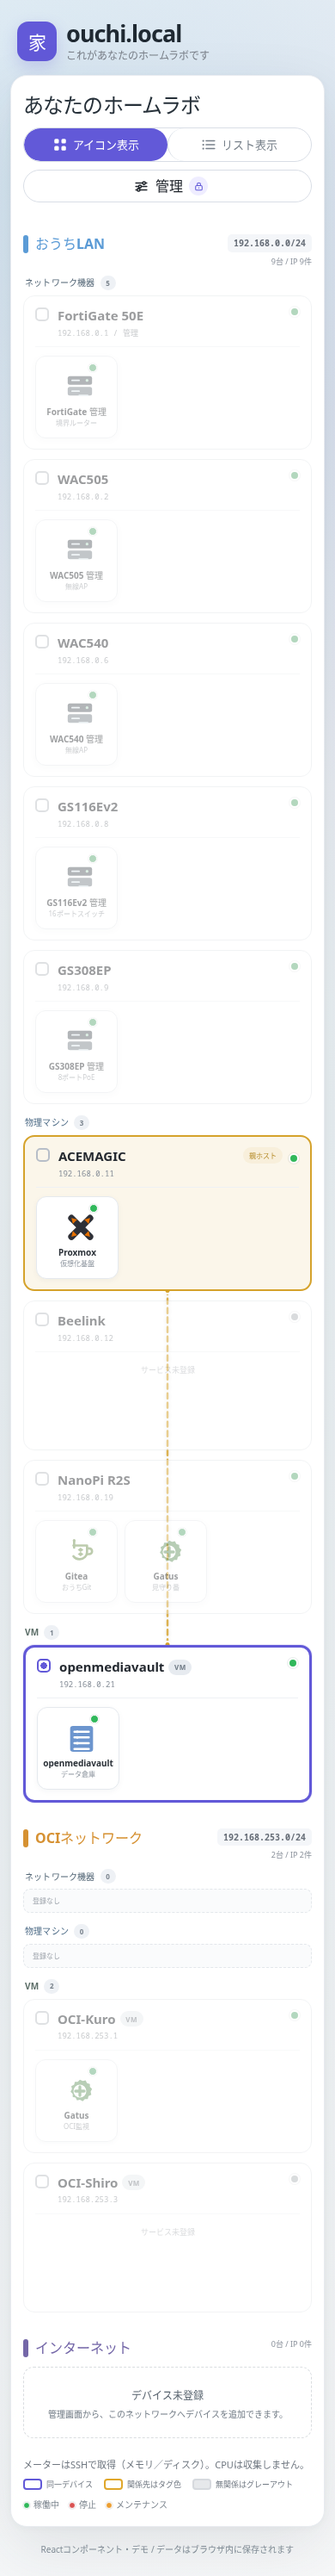
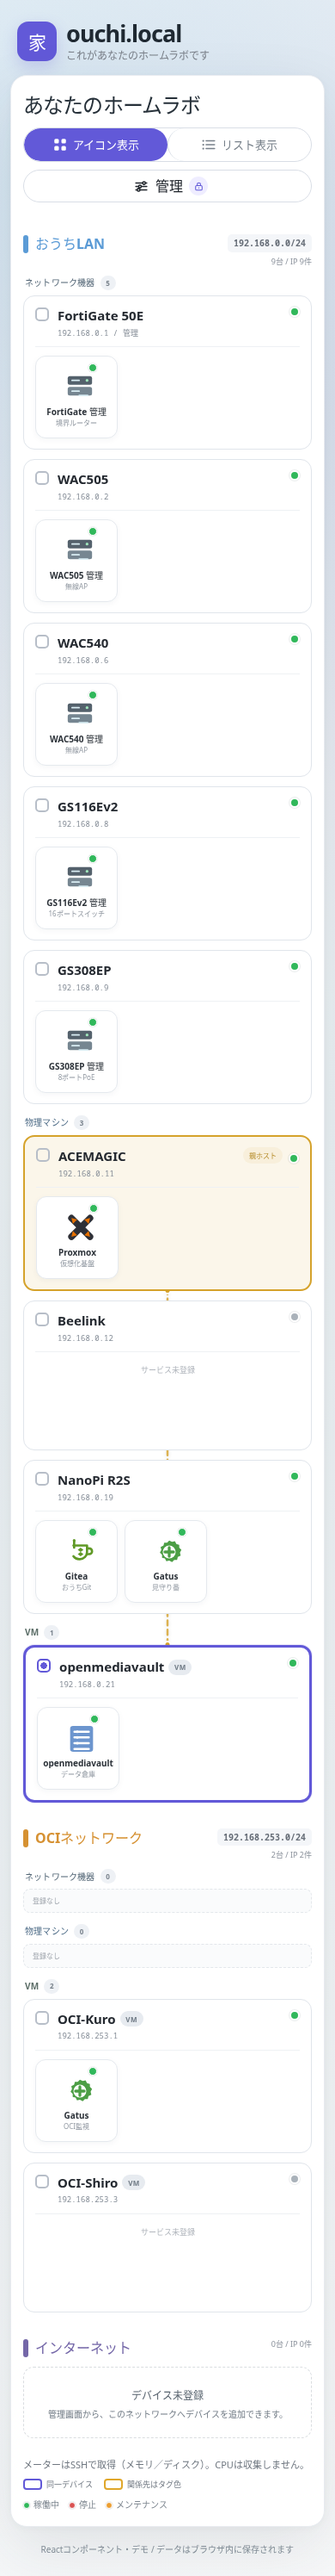
試験: 無関係デバイスのグレーアウトを外す

diff --git a/src/portal/styles.css b/src/portal/styles.css
@@ -1855,7 +1855,7 @@
   min-height: 174px;
   padding: 12px 13px;
   overflow: hidden;
-  background: rgba(255, 255, 255, 0.78);
+  background: #fff;
   border: 1.5px solid #e0e5eb;
   border-radius: 13px;
   box-shadow: none;
@@ -1863,8 +1863,6 @@
   transition:
     border-color 160ms ease,
     background 160ms ease,
-    opacity 160ms ease,
-    filter 160ms ease,
     transform 160ms ease;
 }
 
@@ -1886,15 +1884,6 @@
     #fff
   );
   border: 2px solid var(--ouchi-relation-color);
-}
-
-.ouchi-device-card--muted {
-  opacity: 0.46;
-  filter: grayscale(0.42);
-}
-
-.ouchi-device-card--muted:hover {
-  opacity: 0.7;
 }
 
 .ouchi-node-header {
@@ -2200,11 +2189,6 @@
   border-color: #e0a72b;
 }
 
-.ouchi-legend-swatch--muted {
-  background: #e6e8eb;
-  border-color: #d6d9de;
-}
-
 .ouchi-list-node--selected {
   background: #f3f1ff;
   box-shadow: inset 3px 0 #6259d8;
@@ -2217,10 +2201,6 @@
     #fff
   );
   box-shadow: inset 3px 0 var(--ouchi-relation-color, #d5a22b);
-}
-
-.ouchi-list-node--muted {
-  opacity: 0.5;
 }
 
 .ouchi-list-select-button {

diff --git a/src/portal/OuchiPortal.tsx b/src/portal/OuchiPortal.tsx
@@ -58,7 +58,7 @@ type ConfirmState =
   | { type: "reset" };
 
 interface DeviceVisual {
-  mode: "neutral" | "selected" | "related" | "muted";
+  mode: "neutral" | "selected" | "related";
   tags: Array<{ label: string; color: string }>;
   color?: string;
 }
@@ -162,7 +162,7 @@ function deviceVisual(
       color: related[0].color,
     };
   }
-  return { mode: "muted", tags: [] };
+  return { mode: "neutral", tags: [] };
 }
 
 function connectorAnchors(
@@ -1289,10 +1289,6 @@ export function OuchiPortal({
             <span>
               <i className="ouchi-legend-swatch ouchi-legend-swatch--relation" />
               関係先はタグ色
-            </span>
-            <span>
-              <i className="ouchi-legend-swatch ouchi-legend-swatch--muted" />
-              無関係はグレーアウト
             </span>
           </div>
         </div>

diff --git a/tests/OuchiPortal.test.tsx b/tests/OuchiPortal.test.tsx
@@ -191,8 +191,13 @@ describe("OuchiPortal", () => {
 
     const omv = container.querySelector('[data-device-id="omv-vm"]');
     const aceMagic = container.querySelector('[data-device-id="acemagic"]');
+    const unrelated = container.querySelector(
+      '[data-device-id="nanopi-r2s"]',
+    );
     expect(omv).toHaveClass("ouchi-device-card--selected");
     expect(aceMagic).toHaveClass("ouchi-device-card--related");
+    expect(unrelated).toHaveClass("ouchi-device-card--neutral");
+    expect(unrelated).not.toHaveClass("ouchi-device-card--muted");
     expect(screen.getByText("親ホスト")).toBeInTheDocument();
     expect(screen.queryByText("選択中")).not.toBeInTheDocument();
 

diff --git a/報告書.md b/報告書.md
@@ -43,6 +43,8 @@
 - 白いカードの左上へユーザー設定タイトルを表示し、管理画面から編集・保存できるようにする。デフォルトは「あなたのホームラボ」。
 - ネットワーク表示では「インターネット」を常に最下位にし、pCloudやNotionなど外部SaaSを置く領域として扱う。
 - 現在の変更一式をGitへコミットする。
+- 関連性を接続線で表現できるため、無関係デバイスのグレーアウトを外す試作を行う。ロールバック可能な専用ブランチで検証する。
+- 接続線が半透明のカード越しに見えないよう、線とカードのZオーダーを修正する。
 
 ## 現状の概要報告
 
@@ -132,6 +134,9 @@
 - タイトルのデフォルトは「あなたのホームラボ」で、管理画面の「タイトルを保存」から変更できます。
 - タイトル変更後、自動テスト33件、型チェック、ライブラリ／デモビルド、Playwright 13状態が成功済みです。
 - コミット前に成果物のデモとnpmパッケージを最新ビルドへ同期済みです。
+- コミット `17dd53e` から `experiment/remove-unrelated-grayout` ブランチを作成し、無関係デバイスを通常表示する試作中です。
+- 接続線はカードより背面に維持し、カード背景を不透明にして線がカード上へ透けないよう調整しています。
+- 試作版は自動テスト33件、型チェック、ライブラリ／デモビルド、Playwright 13状態が成功済みです。
 
 ## 課題、懸念点、質問事項
 
@@ -211,6 +216,9 @@
 - 状態更新後も編集中フィールドのカーソルを維持する回帰テスト。
 - Gitコミット前の差分、テスト、成果物確認。
 - 現在の変更一式のローカルGitコミット。
+- グレーアウト除外試作用の専用Gitブランチ作成。
+- 接続線がカード越しに透けないZオーダー調整。
+- グレーアウト除外試作の全自動テスト、ビルド、表示検証。
 - デバイス領域クリックとサービスタイル分離の回帰テスト。
 - 欄外クリックによる選択解除の回帰テスト。
 - ポータル外側クリックによる選択解除の回帰テスト。

diff --git a/README.md b/README.md
@@ -186,7 +186,7 @@ localStorageの保存形式も `PortalDataV2` です。
 関係ハイライトは双方向です。デバイスを選択すると、関係先の全ネットワーク表示を
 関係色で強調します。`from`側を選択した場合は`toLabel`、`to`側を選択した場合は
 `fromLabel`を相手側に表示し、関係デバイス同士をSVGの関係色付き曲線で結びます。
-無関係のデバイスはグレーアウトします。
+無関係のデバイスは通常表示を維持します。
 同一デバイス判定と関係判定は別概念です。
 
 ### サービスURL
